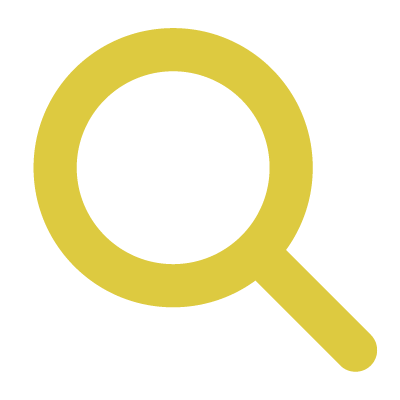
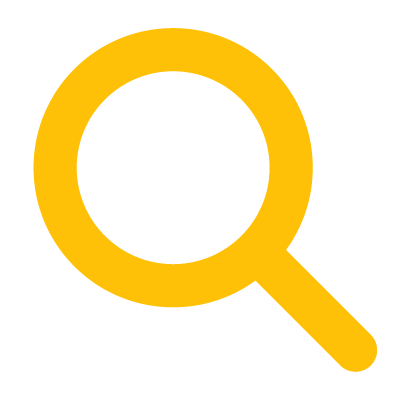
Mas detalles

Changed region(s): [[0.06, 0.06, 0.96, 0.93]]

diff --git a/proyectos.html b/proyectos.html
@@ -73,12 +73,12 @@
                                 </div>
                             </div>
                         </div>
-                        <div class="w-100 d-flex flex-column flex-lg-row justify-content-start align-items-end">
+                        <div class="w-100 d-flex flex-column flex-lg-row justify-content-start  align-items-end gap-5">
                             <div class="card d-flex justify-content-center align-items-center border-0">
                                 <img src="./imagenes/carlos.png" class="card-img-top w-auto" alt="carlos">
                                 <div class="card-body">
                                     <h4 class="fw-semibold fs-5 card-text py-2 px-3 mt-3 text-center">Carlos</h4>
-                                    <p class="card-text text-center fst-italic">“No podría estar más feliz con mi decisión de elegir a SolAqua. Su equipo fue extremadamente profesional y eficiente durante todo el proceso. La instalación fue rápida y sin problemas.”</p>
+                                    <p class="card-text text-center fst-italic">“No podría estar más feliz con mi decisión de elegir a SolarPool. Su equipo fue extremadamente profesional y eficiente durante todo el proceso. La instalación fue rápida y sin problemas.”</p>
                                 </div>
                             </div>
                 
@@ -107,11 +107,11 @@
                                 <img src="./imagenes/ana.png" class="card-img-top w-auto" alt="ana">
                                 <div class="card-body">
                                     <h4 class="fw-semibold fs-5 card-text py-2 px-3 mt-3 text-center">Ana</h4>
-                                    <p class="card-text text-center fst-italic">“SolAqua hizo que el proceso de cambio a energía solar fuera sencillo y sin preocupaciones. Su equipo profesional y amable me brindó todo el apoyo que necesitaba.”</p>
+                                    <p class="card-text text-center fst-italic">“SolarPool hizo que el proceso de cambio a energía solar fuera sencillo y sin preocupaciones. Su equipo profesional y amable me brindó todo el apoyo que necesitaba.”</p>
                                 </div>
                             </div>
                         </div>
-                        <div class="w-100 d-flex flex-column flex-lg-row justify-content-start align-items-end">
+                        <div class="w-100 d-flex flex-column flex-lg-row justify-content-start align-items-end gap-5">
                             <div class="card d-flex justify-content-center align-items-center border-0">
                                 <img src="./imagenes/jose.png" class="card-img-top w-auto" alt="jose">
                                 <div class="card-body">

diff --git a/contacto.html b/contacto.html
@@ -43,10 +43,10 @@
                         <h2 class="w-75">Contacto</h2>
                         <p class="w-75">Si tienes alguna pregunta, consulta o deseas obtener más información sobre nuestros servicios de paneles solares para piscinas, no dudes en contactarnos. Estamos aquí para ayudarte.</p>
                         <div>
-                            <a href="https://www.instagram.com/"><i class="fa-brands fa-instagram fs-1 mx-3 my-4" style="color: #eeca00;"></i></a>
-                            <a href="https://www.facebook.com/"><i class="fa-brands fa-facebook-f fs-1 mx-3 my-4" style="color: #eeca00;"></i></a>
-                            <a href="https://www.linkedin.com/authwall?trk=qf&original_referer=https://www.google.com/&sessionRedirect=https%3A%2F%2Far.linkedin.com%2F"><i class="fa-brands fa-linkedin-in fs-1 mx-3 my-4" style="color: #eeca00;"></i></a>
-                            <a href="https://wa.me/+5492396586971"><i class="fa-brands fa-whatsapp fs-1 mx-3 my-4" style="color: #eeca00;"></i></a>
+                            <a href="https://www.instagram.com/"><i class="fa-brands fa-instagram fs-1 mx-3 my-4" style="color: #FFC107;"></i></a>
+                            <a href="https://www.facebook.com/"><i class="fa-brands fa-facebook-f fs-1 mx-3 my-4" style="color: #FFC107;"></i></a>
+                            <a href="https://www.linkedin.com/authwall?trk=qf&original_referer=https://www.google.com/&sessionRedirect=https%3A%2F%2Far.linkedin.com%2F"><i class="fa-brands fa-linkedin-in fs-1 mx-3 my-4" style="color: #FFC107;"></i></a>
+                            <a href="https://wa.me/+5492396586971"><i class="fa-brands fa-whatsapp fs-1 mx-3 my-4" style="color: #FFC107;"></i></a>
                         </div>
                     </div>
                 </div> 
@@ -63,7 +63,7 @@
                 <input type="text" class="form-control mt-3" id="apellido" placeholder="Apellido">
                 <input type="email" class="form-control mt-3" id="email" placeholder="Mail">
                 <textarea class="form-control mt-3" id="comentario" placeholder="Comentario..." rows="3"></textarea>
-                <button class="btn btn-warning w-25 mt-3">Enviar</button>
+                <button class="btn btn-warning w-50 mt-3">Enviar</button>
             </form>
         </div>
     </main>

diff --git a/index.html b/index.html
@@ -114,7 +114,7 @@
             <div class=" w-50 row d-flex flex-column flex-lg-row">
                 <div class="col-12 col-lg-6 d-flex justify-content-center">
                     <ul class="list-unstyled">
-                        <li class="mt-4"><img src="./imagenes/renovable.png" alt="energia-renovable"> Energia renovable</li>
+                        <li class="mt-4"><img src="./imagenes/renovable.png" alt="energia-renovable"> Energía renovable</li>
                         <li class="mt-4"><img src="./imagenes/carbono.png" alt="emision-carbono"> Reducción de emisiones de carbono</li>
                         <li class="mt-4"><img src="./imagenes/recursos-naturales.png" alt="recursos-naturales"> Conservación de recursos naturales</li>
                         <li class="mt-4"><img src="./imagenes/agua-limpia.png" alt=""> Agua limpia y sin contaminantes</li>

diff --git a/nosotros.html b/nosotros.html
@@ -43,7 +43,7 @@
                     </div>
                 <div class="w-75 d-flex align-items-center">
                     <div class="d-block mx-auto w-75">
-                        <h2>Quienes somos?</h2>
+                        <h2>Quiénes somos?</h2>
                         <p>Somos una empresa especializada en la venta y colocación de paneles solares para piscinas. Nos enorgullece ofrecer soluciones energéticas sostenibles y eficientes para ayudarte a disfrutar al máximo de tu piscina mientras cuidas el medio ambiente.</p>
                     </div>
                 </div> 

diff --git a/productos_servicios.html b/productos_servicios.html
@@ -144,6 +144,7 @@
         
         <div class="w-100 mb-5 mt-3 d-flex flex-column align-items-center justify-content-center">
             <form id="presupuesto" class="w-25 d-flex flex-column justify-content-center align-items-center" method="get">
+                <label for="inputMetros">M2 de piscina</label>
                 <input type="number" class="form-control w-100 my-3" id="inputMetros" placeholder="Ingresá los m2 de tu piscina ">
                 <button type="submit" class="btn btn-warning w-75">Calcular</button>
             </form>
